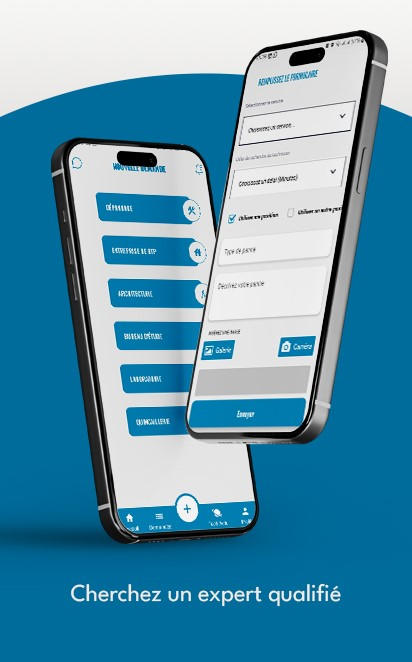
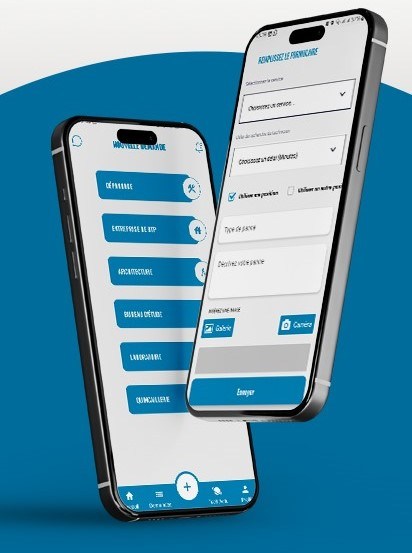
quinze novembre

diff --git a/app/app-mobile/page.tsx b/app/app-mobile/page.tsx
@@ -102,7 +102,7 @@ export default function AppMobilePage() {
                 </div>
                 <div className="relative">
                   <img
-                    src="/mobile-app-interface-for-finding-construction-prof.jpg"
+                    src="/screenmockup2.jpg"
                     alt="App pour clients"
                     className="rounded-3xl shadow-2xl mx-auto"
                   />
@@ -114,7 +114,7 @@ export default function AppMobilePage() {
               <div className="grid md:grid-cols-2 gap-12 items-center">
                 <div className="order-2 md:order-1 relative">
                   <img
-                    src="/mobile-app-interface-for-construction-professional.jpg"
+                    src="/screenmockup1.jpg"
                     alt="App pour professionnels"
                     className="rounded-3xl shadow-2xl mx-auto"
                   />
